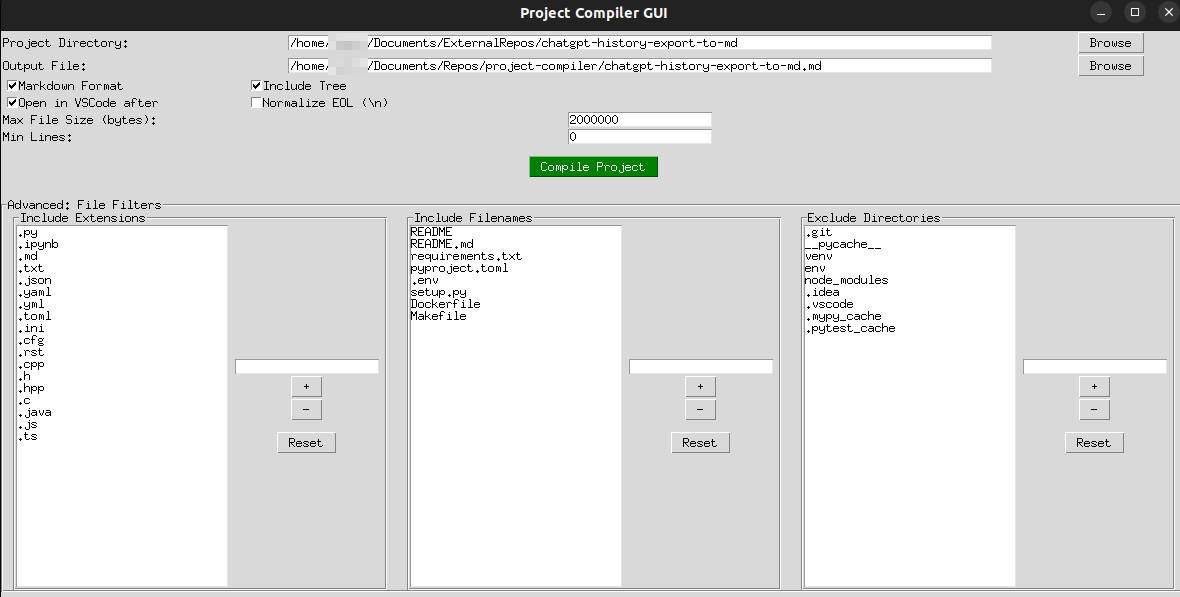
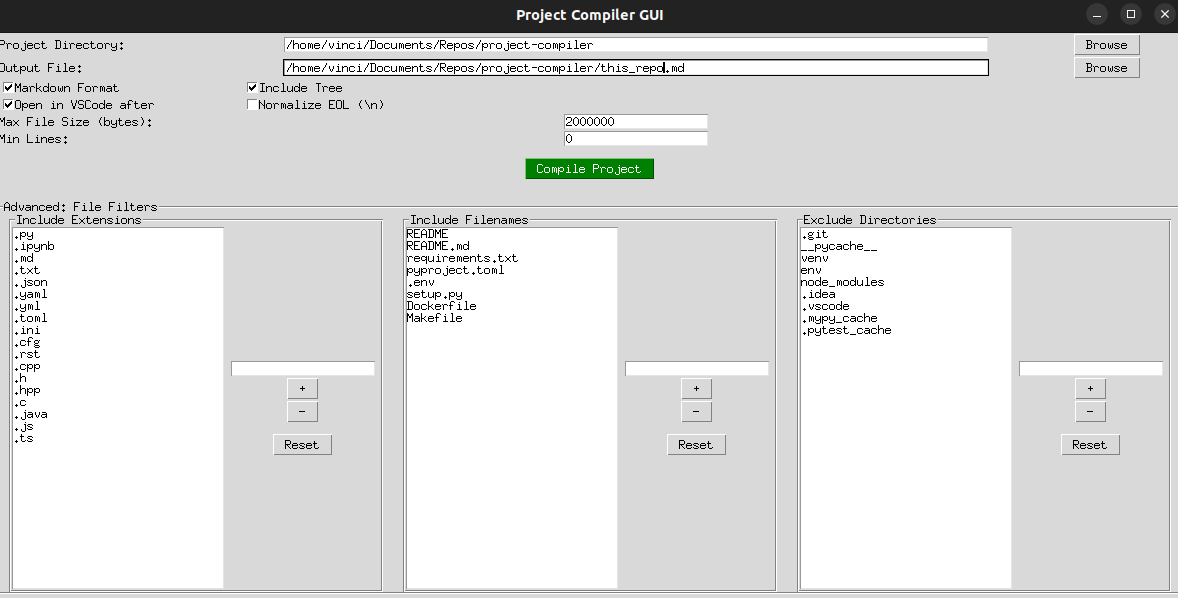
new screenshot

diff --git a/this_repo.md b/this_repo.md
@@ -3,7 +3,7 @@
 
 ```
 ├── compile.py (11 KB, 310 lines)
-├── README.md (0 KB, 12 lines)
+├── README.md (0 KB, 16 lines)
 ├── gui_launcher.py (9 KB, 269 lines)
 └── compiler_config.json (0 KB, 10 lines)
 ```
@@ -330,7 +330,7 @@ if __name__ == "__main__":
 
 
 <details>
-<summary><a name="readme-md"></a>`README.md` (0 KB, 12 lines)</summary>
+<summary><a name="readme-md"></a>`README.md` (0 KB, 16 lines)</summary>
 
 ````markdown
 This repo provides a simple tool to compile all important files in your project into a single Markdown or text file — perfect for sharing with an LLM.
@@ -345,6 +345,10 @@ Just clone the repo and run:
 ```bash
 python3 gui_launcher.py
 ```
+
+Here is a screenshot of the GUI, showing several functionalities:
+
+![alt text](GUI.png)
 ````
 </details>
 
@@ -631,7 +635,7 @@ root.mainloop()
 
 ```json
 {
-  "project_dir": "/home/vinci/Documents/Repos/project-compiler/",
+  "project_dir": "/home/vinci/Documents/Repos/project-compiler",
   "output_file": "/home/vinci/Documents/Repos/project-compiler/this_repo.md",
   "markdown": true,
   "tree": true,
